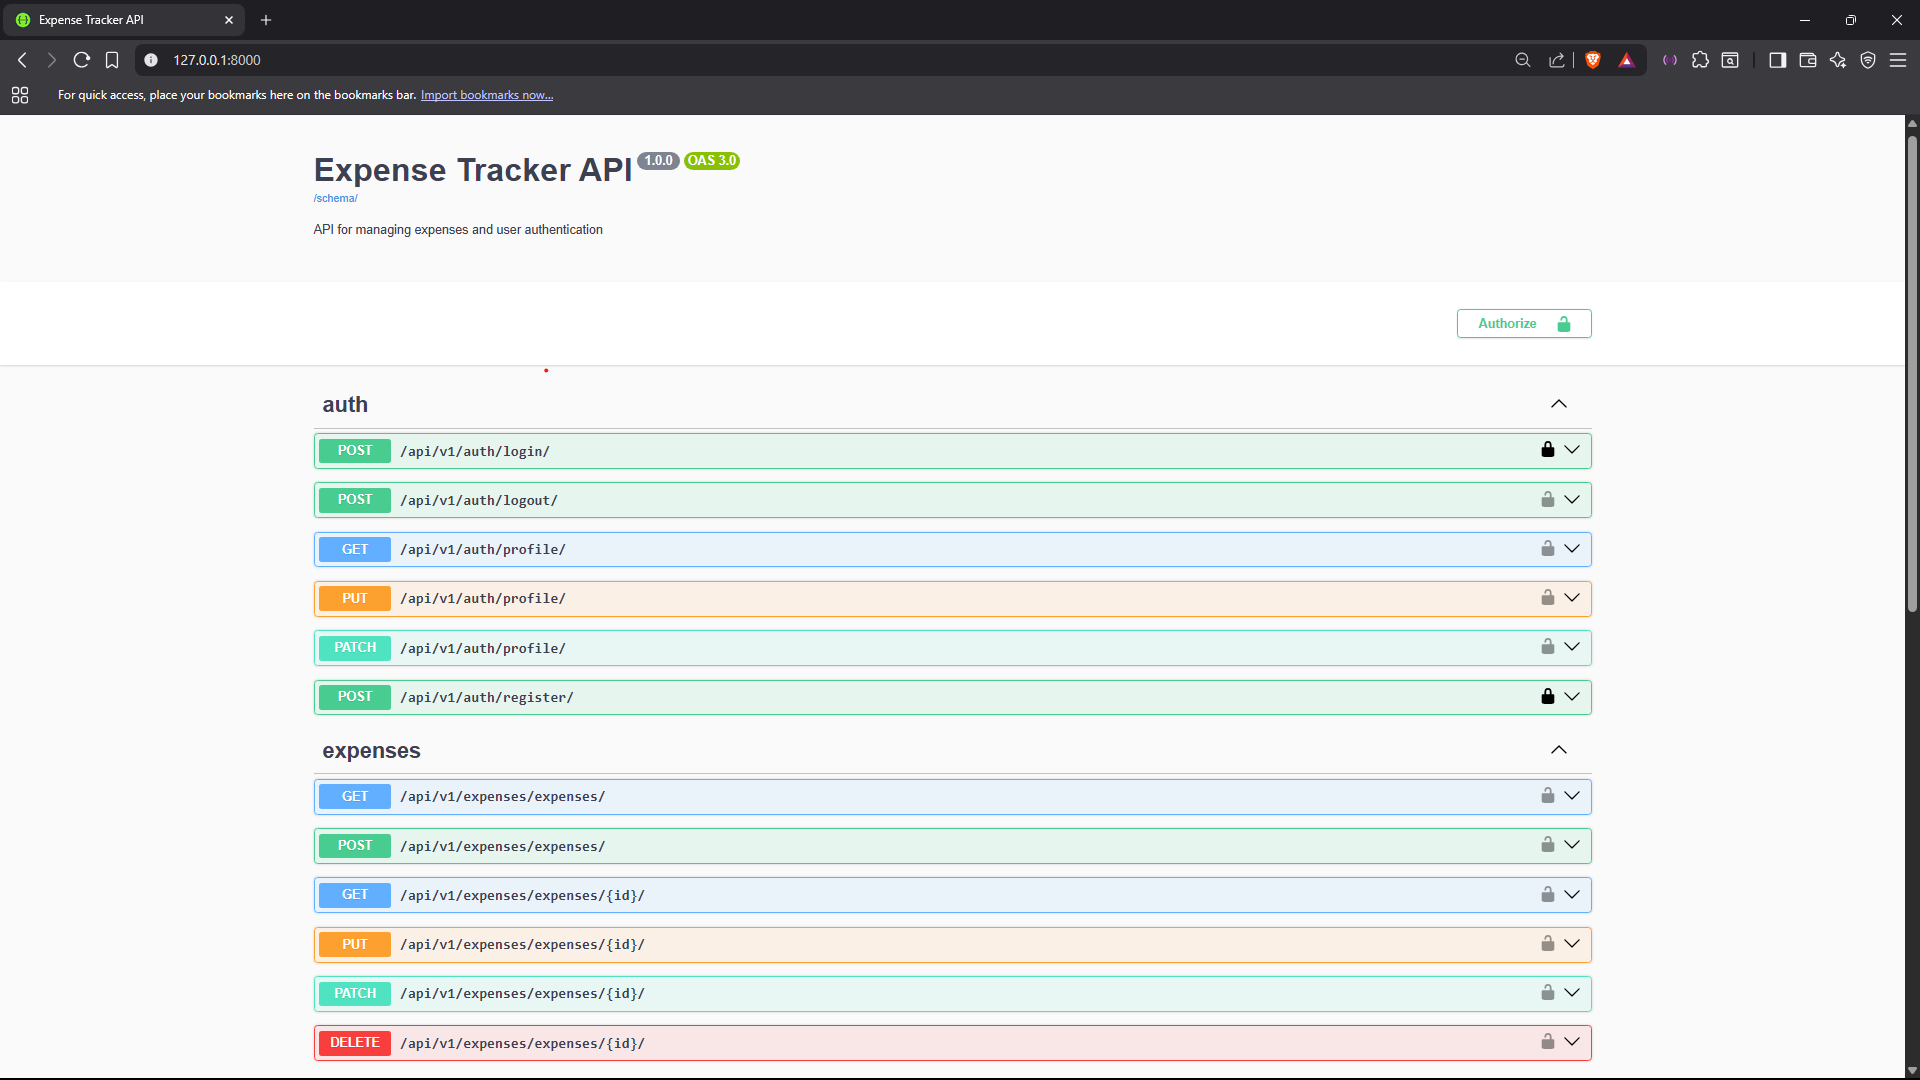
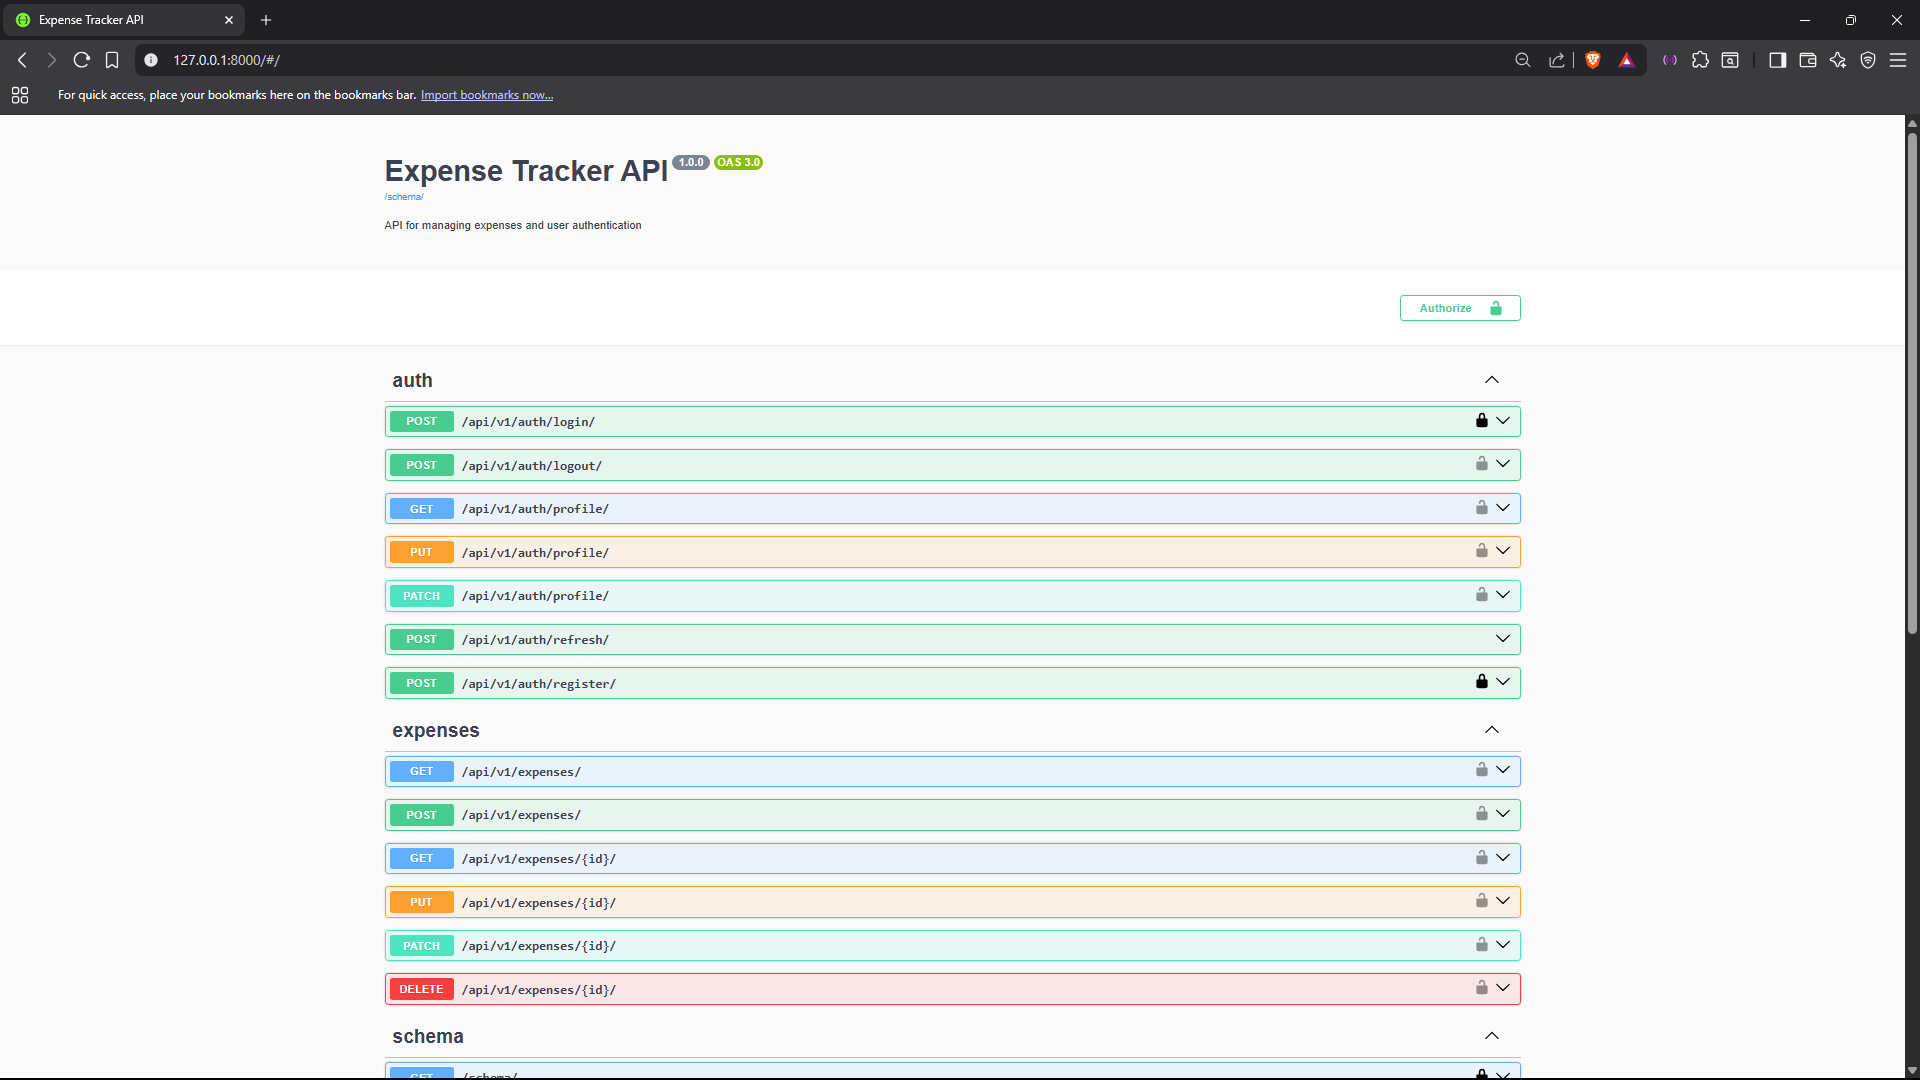
fixes

Changed region(s): [[0.1562, 0.3361, 0.8125, 1.0], [0.1562, 0.1222, 0.4062, 0.2139], [0.75, 0.275, 0.8125, 0.3056]]

diff --git a/src/apps/auth/urls.py b/src/apps/auth/urls.py
@@ -5,10 +5,12 @@ from .views import (
     UserLogoutView,
     UserDetailView,
 )
+from rest_framework_simplejwt.views import TokenRefreshView
 
 urlpatterns = [
     path('register/', UserRegistrationView.as_view(), name='user-register'),
     path('login/', UserLoginView.as_view(), name='user-login'),
     path('logout/', UserLogoutView.as_view(), name='user-logout'),
     path('profile/', UserDetailView.as_view(), name='user-profile'),
+    path('refresh/', TokenRefreshView.as_view(), name='token-refresh'),
 ]

diff --git a/src/apps/expenses/urls.py b/src/apps/expenses/urls.py
@@ -5,6 +5,6 @@ from .views import (
 )
 
 urlpatterns = [
-    path('expenses/', ExpenseListCreateView.as_view(), name='expense-list-create'),
-    path('expenses/<int:pk>/', ExpenseDetailView.as_view(), name='expense-detail'),
+    path('', ExpenseListCreateView.as_view(), name='expense-list-create'),
+    path('<int:pk>/', ExpenseDetailView.as_view(), name='expense-detail'),
 ]
